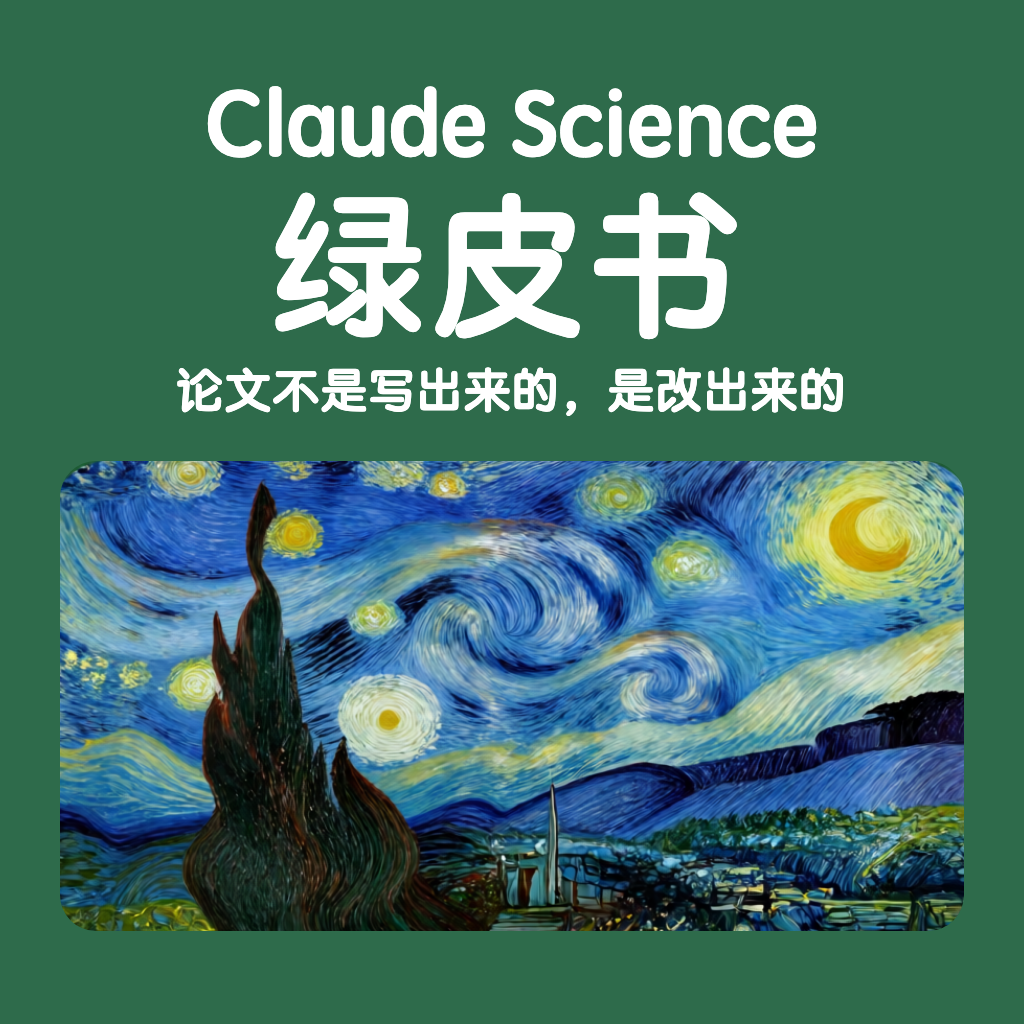
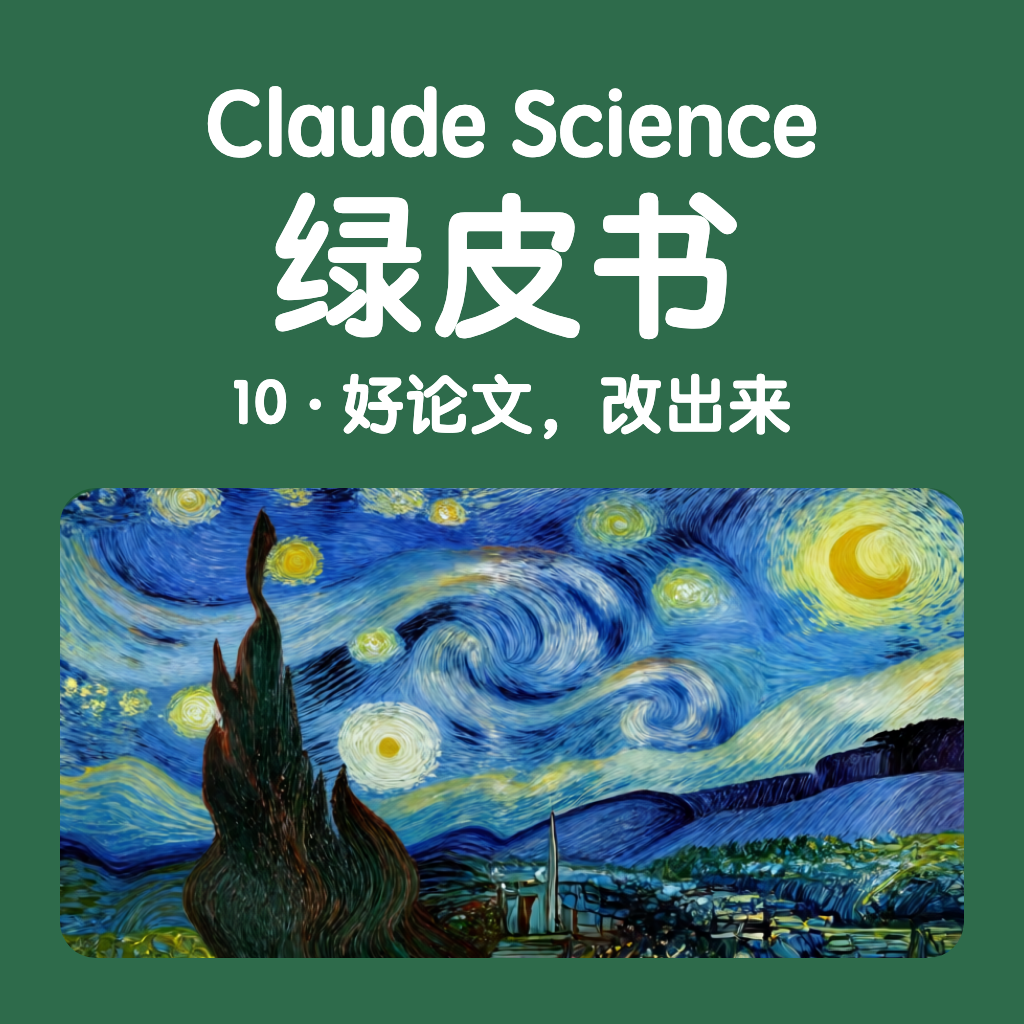
10 标题简化为「好论文，改出来」（封面 + H1 + 侧边栏）

diff --git a/reading/claude-science/10-paper-six-iterations.md b/reading/claude-science/10-paper-six-iterations.md
@@ -2,7 +2,7 @@
 pageClass: paper10
 ---
 
-# 10 · 论文不是写出来的，是改出来的：一篇论文的六轮迭代
+# 10 · 好论文，改出来：一篇论文的六轮迭代
 
 *Claude Science 绿皮书 · 第 10 篇 · 2026-08-03*
 
